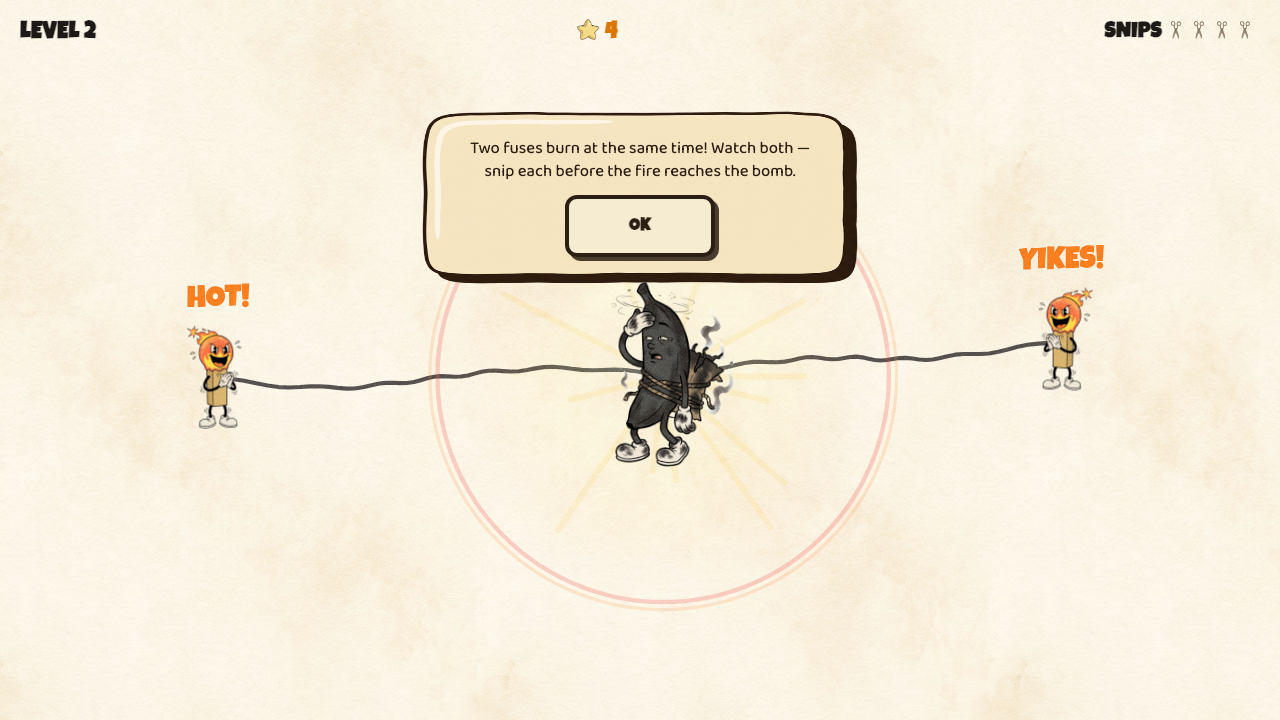
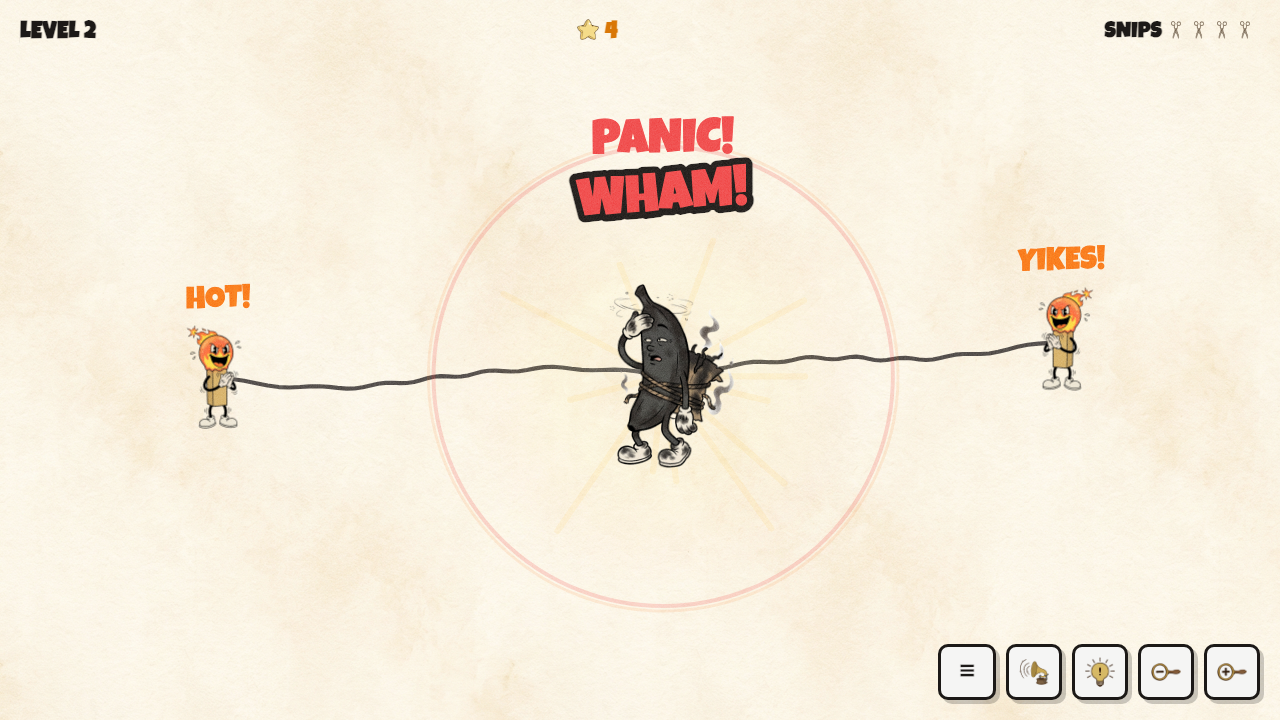
Freeze the burn on teaching levels until the tutorial is dismissed
Teaching cards no longer sit over a live fuse: the simulation (spark
positions, delay timers, and the clear-time clock) holds while the card is
up, and the level starts when the player clicks OK. Cuts are rejected while
the card is showing, and the Level-1 demo hand keeps animating from
wall-clock time so the swipe lesson still plays behind the card.

Menu modals clear the teaching pause as a safety net, and the smoke/verify
scripts were updated to dismiss teaching cards before cutting.

diff --git a/src/engine/GameLoop.js b/src/engine/GameLoop.js
@@ -150,7 +150,8 @@ export class GameLoop {
     // ---- Cutting (spatial, from the prototype's handlePointerUp) -------------
 
     tryCut(swipeStart, swipeEnd, trail) {
-        if (this.gameState !== STATE.PLAYING || this.snipsRemaining <= 0) return false;
+        // No cutting while a teaching card is up — the level starts on OK.
+        if (this.gameState !== STATE.PLAYING || this.tutorialActive || this.snipsRemaining <= 0) return false;
 
         // Track the closest point on every fuse, then pick the best *eligible*
         // one. A fuse is ineligible when it already has a cut within 30 units
@@ -407,7 +408,10 @@ export class GameLoop {
         const dt = Math.min(32, t - this._lastT);
         this._lastT = t;
 
-        if (this.gameState !== STATE.PAUSED) {
+        // Teaching cards freeze the simulation: sparks don't ignite, delay
+        // timers don't tick, and the clear-time clock doesn't run until the
+        // player dismisses the card and the level actually starts.
+        if (this.gameState !== STATE.PAUSED && !this.tutorialActive) {
             this.frameCount++;
             this._update();
         }

diff --git a/src/main.js b/src/main.js
@@ -148,6 +148,7 @@ function openModal(el, display = "flex") {
         if (m !== el) m.style.display = "none";
     }
     tutorialOverlay.style.display = "none";
+    game.tutorialActive = false; // a menu over a teaching card ends the pre-level pause
     if (game.gameState === STATE.PLAYING) {
         selectorPaused = true;
         game.setPaused(true);
@@ -177,6 +178,7 @@ function closeModals() {
     modalLevels.style.display = "none";
     modalMenu.style.display = "none";
     tutorialOverlay.style.display = "none";
+    game.tutorialActive = false;
     resumeIfPausedByMenu();
 }
 

diff --git a/src/engine/Renderer.js b/src/engine/Renderer.js
@@ -1058,7 +1058,9 @@ export class Renderer {
         const p0 = fuse.startNode;
         const p3 = fuse.endNode;
         const ctx = this.ctx;
-        const t = game.frameCount;
+        // Wall-clock "frames" so the demo hand keeps sliding while the tutorial
+        // freezes the simulation (game.frameCount is held on teach levels).
+        const t = performance.now() / 16.667;
 
         // Red cut line (visible): a pulsing slash across the wick where the snip goes.
         const cutU = 0.42;
